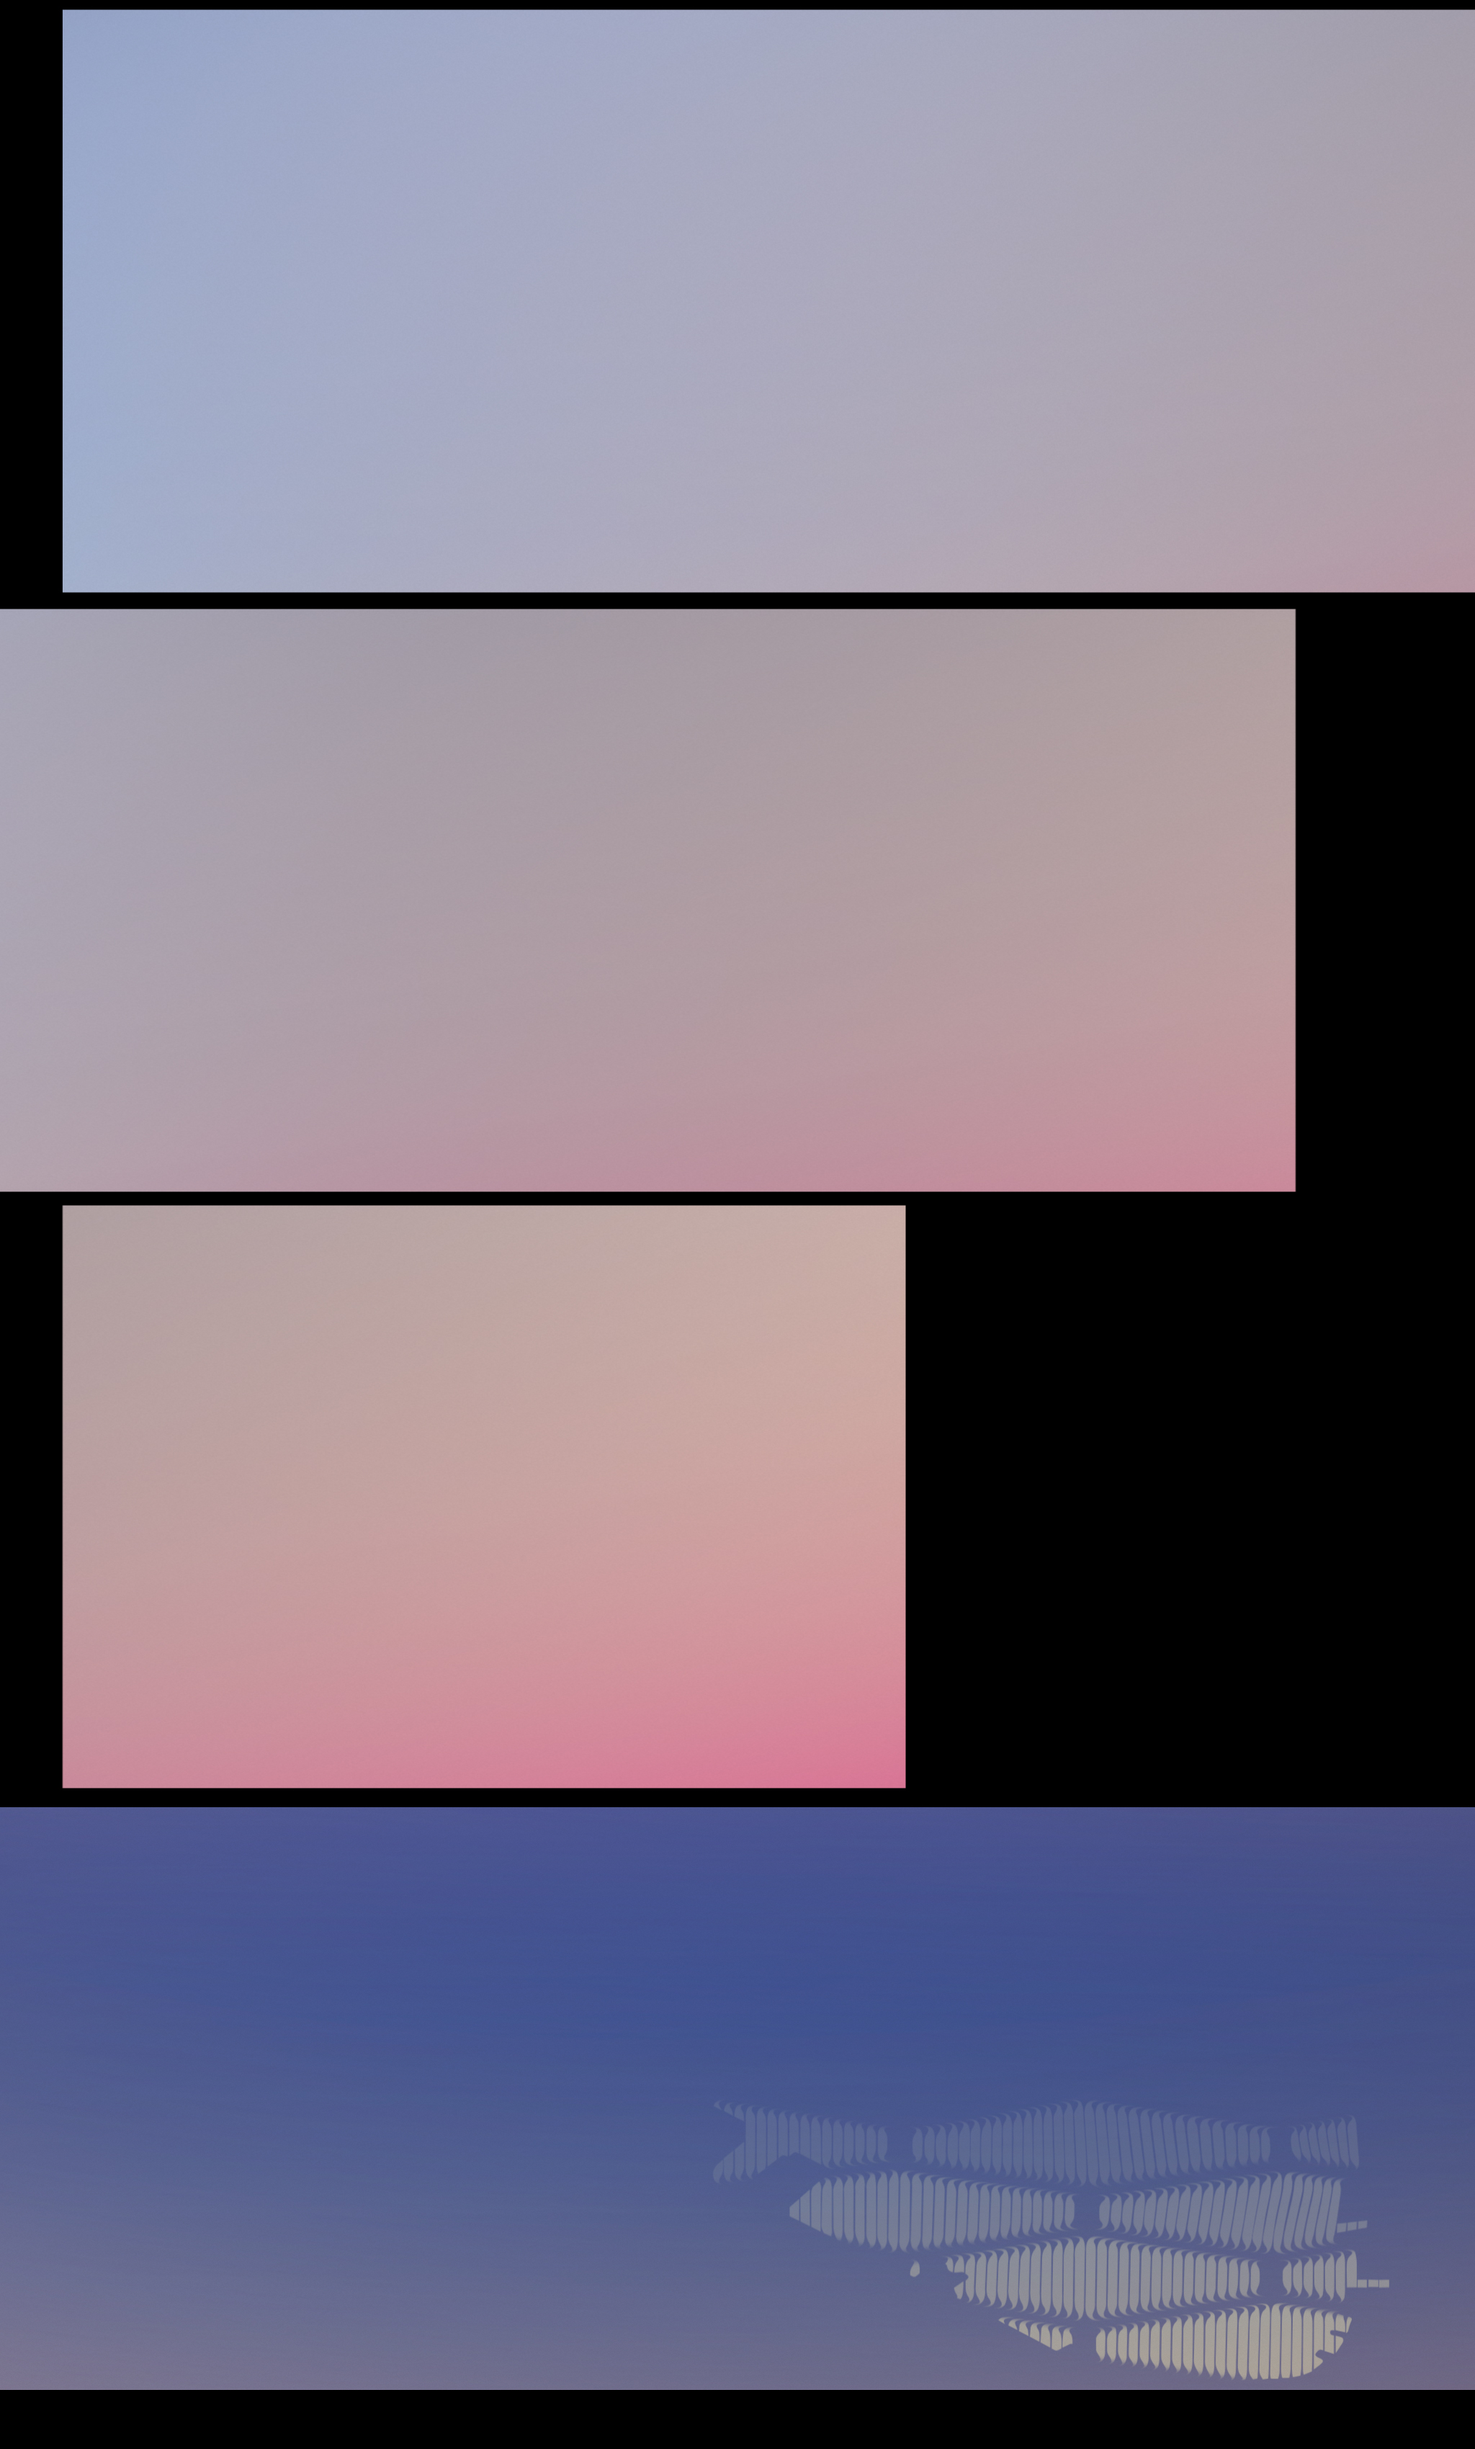
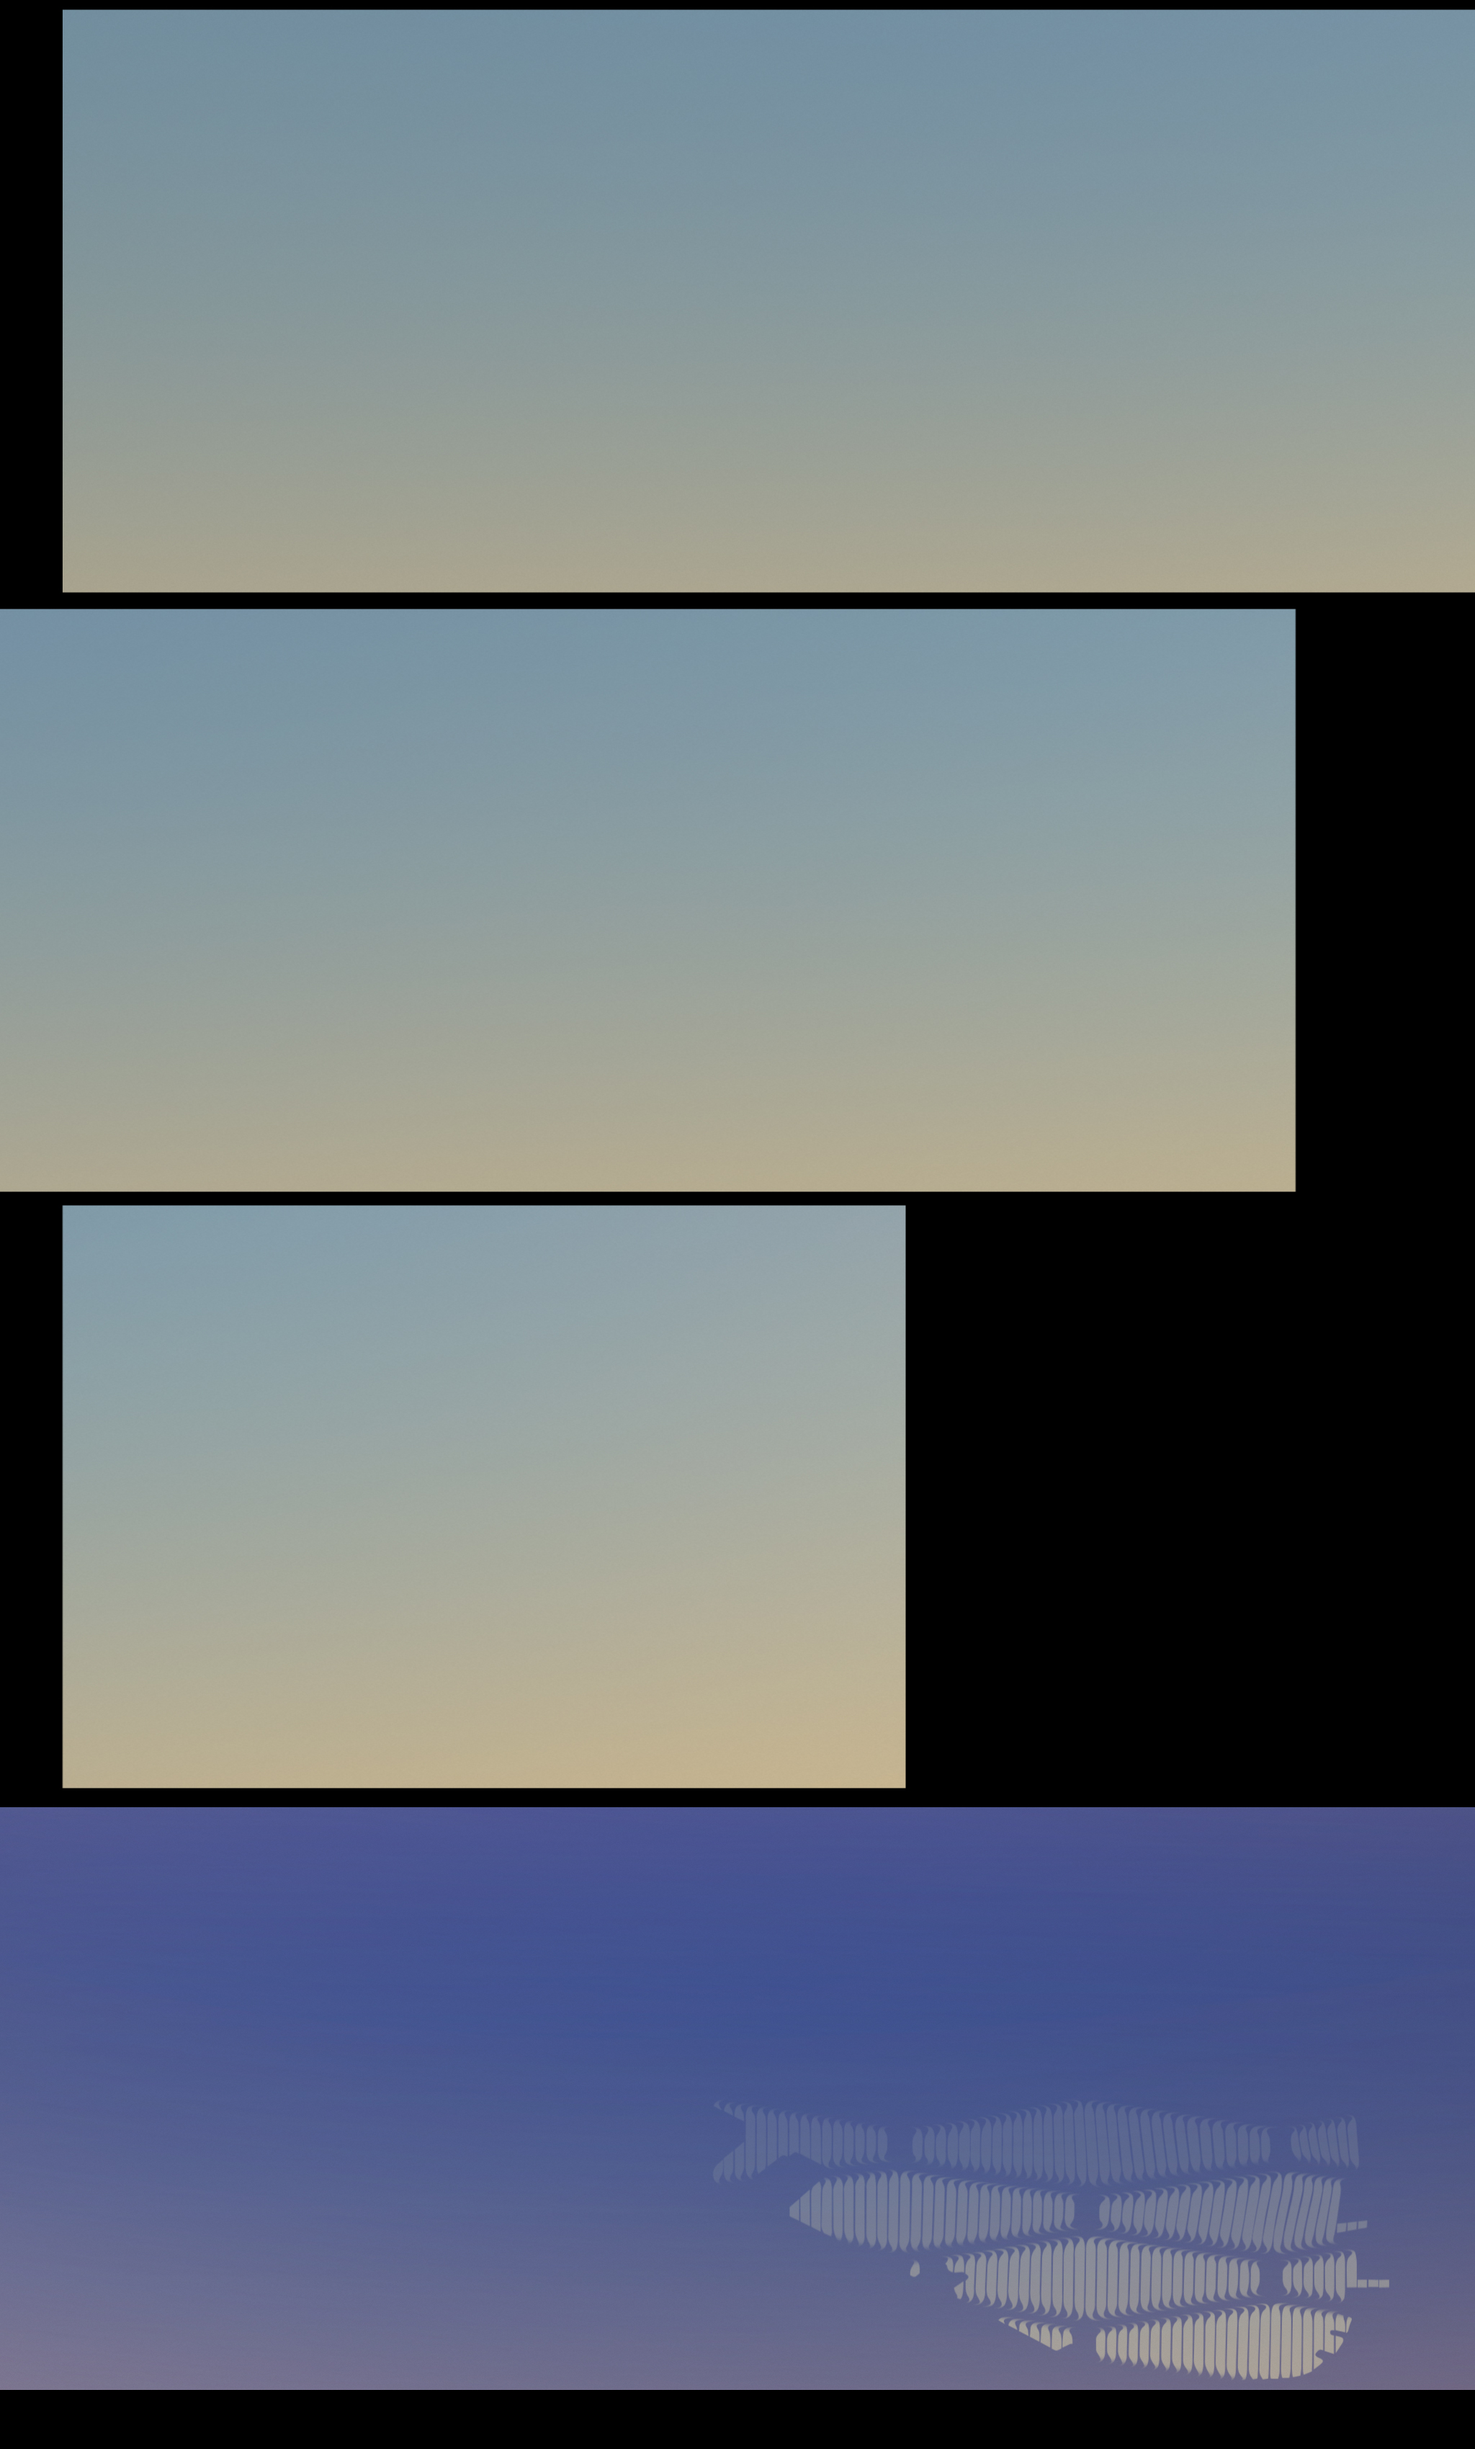
Reimplemented checking for start times and durations from sockets

diff --git a/PlayerApp_3D/src/testApp.mm b/PlayerApp_3D/src/testApp.mm
@@ -13,7 +13,7 @@ void testApp::setup() {
     //not currently playing and checking for loop or pause point
     bCheckingTime=false;
     //set loop mode to loop either ambient or default content
-    loopMode=AMBIENT_LOOP;
+    loopMode=CLOUDS_LOOP;
     //set number of GL cameras/projectors
     numScreens=1;
     //set how many seconds into detail section to start after transition, determines speed of transition (smaller = longer)
@@ -112,73 +112,87 @@ void testApp::update(){
         //load end time for current event
         for(int i=0; i<socketHandler.eventHandler.events.size();i++){
             if(socketHandler.eventHandler.currentEvent==socketHandler.eventHandler.events[i].title){
-//                currentEnd=socketHandler.eventHandler.events[i].startTime+socketHandler.eventHandler.events[i].duration;
-//                currentEnd=98;
+                currentEnd=socketHandler.eventHandler.events[i].startTime+socketHandler.eventHandler.events[i].duration;
             }
         }
         
         if(socketHandler.eventHandler.currentEvent=="default"){
-            loadTime=990;
-            currentEnd=1228;
+            loopMode==CLOUDS_LOOP;
             map.fadeIn(TRANSITION_DEFAULT);
         }
         
         else if(socketHandler.eventHandler.currentEvent=="end"){
-            if(loopMode==AMBIENT_LOOP){
-                loadTime=socketHandler.eventHandler.events[0].startTime;
-                map.fadeIn(TRANSITION_AMBIENT_GRADIENT);
-            }
-            else if (loopMode==DEFAULT_LOOP){
-                loadTime=socketHandler.eventHandler.events[1].startTime;
+            if (loopMode==DEFAULT_LOOP){
+                loadTime=socketHandler.eventHandler.events[4].startTime;
                 map.fadeIn(TRANSITION_DEFAULT);
             }
+
+            else if (loopMode==CLOUDS_LOOP){
+                loadTime=socketHandler.eventHandler.events[1].startTime;
+                map.fadeIn(TRANSITION_CLOUDS);
+            }
+        }
+        
+        else if(socketHandler.eventHandler.currentEvent=="ambient"){
+            loadTime=socketHandler.eventHandler.events[1].startTime;
+            loopMode==CLOUDS_LOOP;
+            map.fadeIn(TRANSITION_CLOUDS);
+            
         }
         
         else if(socketHandler.eventHandler.currentEvent=="ambient_gradient"){
-            loadTime=180;
-            currentEnd=820;
-            map.fadeIn(TRANSITION_AMBIENT_GRADIENT);
+            loopMode==GRADIENT_LOOP;
+            map.fadeIn(TRANSITION_GRADIENT);
 
         }
         
+        
         else if(socketHandler.eventHandler.currentEvent=="ambient_clouds"){
-            loadTime=0;
-            currentEnd=180;
-            map.fadeIn(TRANSITION_AMBIENT_CLOUDS);
+            loopMode==CLOUDS_LOOP;
+            map.fadeIn(TRANSITION_CLOUDS);
             
         }
         
         else if(socketHandler.eventHandler.currentEvent=="ambient_party"){
-            loadTime=820;
-            currentEnd=990;
-            map.fadeIn(TRANSITION_AMBIENT_PARTY);
+            loopMode=PARTY_LOOP;
+            map.fadeIn(TRANSITION_PARTY);
             
         }
         
-//        else if(socketHandler.eventHandler.currentEvent=="gastronomy"){
-////            loadTime+=startOffset;
-//            loadTime=0;
-//            map.fadeIn(TRANSITION_GASTRONOMY);
-//        }
+        else if(socketHandler.eventHandler.currentEvent=="ambient_waves"){
+            loopMode==WAVES_LOOP;
+            map.fadeIn(TRANSITION_WAVES);
+            
+        }
         
-//        else if(socketHandler.eventHandler.currentEvent=="markets"){
-//            loadTime+=startOffset;
-//            map.fadeIn(TRANSITION_MARKETS);
-//        }
-//        
-//        else if(socketHandler.eventHandler.currentEvent=="shopping"){
-//            loadTime+=startOffset;
-//            map.fadeIn(TRANSITION_SHOPPING);
-//        }
-//        
-//        else if(socketHandler.eventHandler.currentEvent=="art-design"){
-//            map.fadeIn(TRANSITION_ARTS);
-//        }
-//        
-//        else if(socketHandler.eventHandler.currentEvent=="leisure"){
-//            loadTime+=startOffset;
-//            map.fadeIn(TRANSITION_LEISURE);
-//        }
+        else if(socketHandler.eventHandler.currentEvent=="gastronomy"){
+            loopMode==CLOUDS_LOOP;
+            loadTime+=startOffset;
+            map.fadeIn(TRANSITION_GASTRONOMY);
+        }
+        
+        else if(socketHandler.eventHandler.currentEvent=="markets"){
+            loopMode==CLOUDS_LOOP;
+            loadTime+=startOffset;
+            map.fadeIn(TRANSITION_MARKETS);
+        }
+        
+        else if(socketHandler.eventHandler.currentEvent=="shopping"){
+                        loopMode==CLOUDS_LOOP;
+            loadTime+=startOffset;
+            map.fadeIn(TRANSITION_SHOPPING);
+        }
+        
+        else if(socketHandler.eventHandler.currentEvent=="art-design"){
+                        loopMode==CLOUDS_LOOP;
+            map.fadeIn(TRANSITION_ARTS);
+        }
+        
+        else if(socketHandler.eventHandler.currentEvent=="leisure"){
+                        loopMode==CLOUDS_LOOP;
+            loadTime+=startOffset;
+            map.fadeIn(TRANSITION_LEISURE);
+        }
         
         else if(socketHandler.eventHandler.currentEvent=="pause"){
             bool bCanPause=false;
@@ -205,17 +219,26 @@ void testApp::update(){
     
     //check for end of current event and then go to ambient/default start
     if(bCheckingTime==true&&MSA::ofxCocoa::getCurrentTime()>currentEnd-1){
-        if(loopMode==AMBIENT_LOOP){
-//            loadTime=socketHandler.eventHandler.events[0].startTime;
-            loadTime=0;
-            currentEnd=180;
-            map.fadeIn(TRANSITION_AMBIENT_CLOUDS);
+        if(loopMode==CLOUDS_LOOP){
+            loadTime=socketHandler.eventHandler.events[1].startTime;
+            map.fadeIn(TRANSITION_CLOUDS);
         }
-//        else if (loopMode==DEFAULT_LOOP){
-////            loadTime=socketHandler.eventHandler.events[1].startTime;
-//            loadTime=0;
-//            map.fadeIn(TRANSITION_GASTRONOMY);
-//        }
+        else if(loopMode==GRADIENT_LOOP){
+            loadTime=socketHandler.eventHandler.events[0].startTime;
+            map.fadeIn(TRANSITION_GRADIENT);
+        }
+        else if (loopMode==DEFAULT_LOOP){
+            loadTime=socketHandler.eventHandler.events[4].startTime;
+            map.fadeIn(TRANSITION_DEFAULT);
+        }
+        else if (loopMode==WAVES_LOOP){
+            loadTime=socketHandler.eventHandler.events[3].startTime;
+            map.fadeIn(TRANSITION_WAVES);
+        }
+        else if (loopMode==PARTY_LOOP){
+            loadTime=socketHandler.eventHandler.events[2].startTime;
+            map.fadeIn(TRANSITION_PARTY);
+        }
         bCheckingTime=false;
     }
     
@@ -327,20 +350,18 @@ void testApp::initVariables(){
 
     // set default variable for default loop
     if(loopMode==DEFAULT_LOOP){
-        currentEnd=socketHandler.eventHandler.events[1].startTime+socketHandler.eventHandler.events[1].duration;
+        currentEnd=socketHandler.eventHandler.events[4].startTime+socketHandler.eventHandler.events[4].duration;
         currentTransition=TRANSITION_DEFAULT;
-        loadTime=socketHandler.eventHandler.events[1].startTime;
+        loadTime=socketHandler.eventHandler.events[4].startTime;
         map.fadeIn(TRANSITION_DEFAULT);
     }
     
     // set default variable for ambient loop
-    else if(loopMode==AMBIENT_LOOP){
-//        currentEnd=socketHandler.eventHandler.events[0].startTime+socketHandler.eventHandler.events[0].duration;
-        currentEnd=98;
-        currentTransition=TRANSITION_AMBIENT_GRADIENT;
-//        loadTime=socketHandler.eventHandler.events[0].startTime;
-        loadTime=0;
-        map.fadeIn(TRANSITION_AMBIENT_GRADIENT);
+    else {
+        currentEnd=socketHandler.eventHandler.events[1].startTime+socketHandler.eventHandler.events[1].duration;
+        currentTransition=TRANSITION_CLOUDS;
+        loadTime=socketHandler.eventHandler.events[1].startTime;
+        map.fadeIn(TRANSITION_CLOUDS);
     }
     
     //Pause times for default and detail loops

diff --git a/PlayerApp_3D/src/ModelMapper/ModelMapper.cpp b/PlayerApp_3D/src/ModelMapper/ModelMapper.cpp
@@ -87,6 +87,7 @@ void ModelMapper::setup(int _numCams, int _guiCam, vector< vector<int> > _whichM
     ofLoadImage(defaultFrame,"Default_Frame.jpg");
     ofLoadImage(ambientCloudsFrame,"Ambient_Clouds_Frame.jpg");
     ofLoadImage(ambientPartyFrame,"Ambient_Party_Frame.jpg");
+    ofLoadImage(ambientWavesFrame,"Ambient_Waves_Frame.jpg");
     bTransitioning=false;
     bTransitionStarted=false;
     bTransitionFinished=false;
@@ -3349,7 +3350,7 @@ void ModelMapper::fadeIn(int type){
     
     transitionTimer=ofGetElapsedTimeMillis();
     
-    if (type==TRANSITION_AMBIENT_GRADIENT){
+    if (type==TRANSITION_GRADIENT){
         fadeFrame=&ambientGradientFrame;
     }
     else if(type==TRANSITION_DEFAULT){
@@ -3373,11 +3374,14 @@ void ModelMapper::fadeIn(int type){
     else if(type==TRANSITION_END){
         fadeFrame=&endFrame;
     }
-    else if(type==TRANSITION_AMBIENT_CLOUDS){
+    else if(type==TRANSITION_CLOUDS){
         fadeFrame=&ambientCloudsFrame;
     }
-    else if(type==TRANSITION_AMBIENT_PARTY){
+    else if(type==TRANSITION_PARTY){
         fadeFrame=&ambientPartyFrame;
+    }
+    else if(type==TRANSITION_WAVES){
+        fadeFrame=&ambientWavesFrame;
     }
 }
 

diff --git a/PlayerApp_3D/src/ModelMapper/ModelMapper.h b/PlayerApp_3D/src/ModelMapper/ModelMapper.h
@@ -56,9 +56,10 @@
 #define TRANSITION_ARTS 4
 #define TRANSITION_LEISURE 5
 #define TRANSITION_END 6
-#define TRANSITION_AMBIENT_GRADIENT 7
-#define TRANSITION_AMBIENT_CLOUDS 8
-#define TRANSITION_AMBIENT_PARTY 9
+#define TRANSITION_GRADIENT 7
+#define TRANSITION_CLOUDS 8
+#define TRANSITION_PARTY 9
+#define TRANSITION_WAVES 10
 
 class ModelMapper {
 public:
@@ -364,7 +365,7 @@ public:
     //timer on transition
     int transitionTimer;
     //textures for each individual transition graphic
-    ofTexture defaultFrame, gastronomyFrame, marketsFrame, shoppingFrame, artsFrame, leisureFrame, ambientGradientFrame, endFrame, ambientCloudsFrame, ambientPartyFrame;
+    ofTexture defaultFrame, gastronomyFrame, marketsFrame, shoppingFrame, artsFrame, leisureFrame, ambientGradientFrame, endFrame, ambientCloudsFrame, ambientPartyFrame, ambientWavesFrame;
     //reference for current transition graphic
     ofTexture * fadeFrame;
     

diff --git a/PlayerApp_3D/src/testApp.h b/PlayerApp_3D/src/testApp.h
@@ -7,8 +7,11 @@
 #define TEX_WIDTH 2048
 #define TEX_HEIGHT 3400
 
-#define AMBIENT_LOOP 0
+#define GRADIENT_LOOP 0
 #define DEFAULT_LOOP 1
+#define PARTY_LOOP 2
+#define WAVES_LOOP 3
+#define CLOUDS_LOOP 4
 
 
 class testApp : public ofBaseApp{

diff --git a/PlayerApp_3D/src/Handlers/SocketHandler.h b/PlayerApp_3D/src/Handlers/SocketHandler.h
@@ -15,7 +15,7 @@
 #include "EventHandler.h"
 #include "EventTypes.h"
 
-#define SOCKET_DEBUG 0 // 0 = OFF, 1 = ON
+#define SOCKET_DEBUG 1 // 0 = OFF, 1 = ON
 
 class SocketHandler{
     
